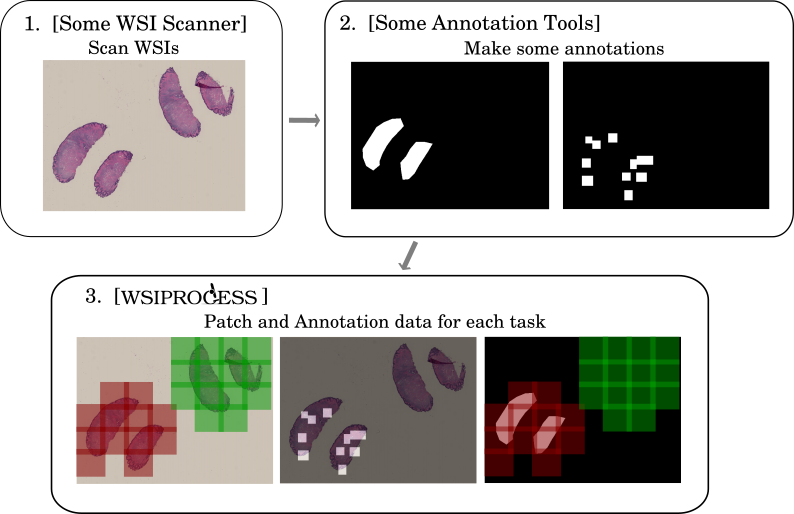
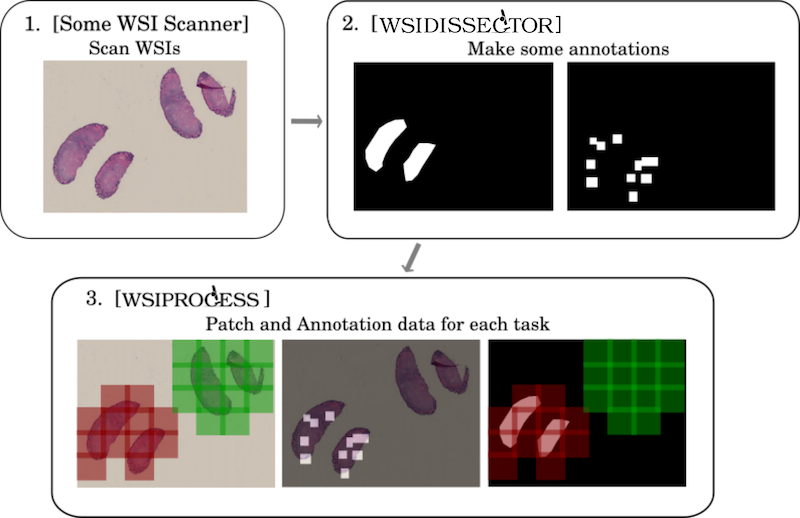
updates for wsidissector

diff --git a/wsiprocess/annotation.py b/wsiprocess/annotation.py
@@ -12,6 +12,11 @@ Example:
 
         import wsiprocess as wp
         annotation = wp.annotation("path_to_annotation_file.xml")
+
+    Loading annotation data from image:: python
+
+        import wsiprocess as wp
+        annotation = wp.annotation("")
 """
 
 import cv2
@@ -22,9 +27,20 @@ from .annotationparser.parser_utils import detect_type
 
 class Annotation:
 
-    def __init__(self, path):
+    def __init__(self, path, is_image=False):
+        """Initialize the anntation object.
+
+        Args:
+            path(str): Path to the anntation data.
+                Text data made with "WSIDissector" or "ASAP", and Image data
+                (non-pyramidical) are available.
+            is_image(bool): Whether the image is image.
+        """
         self.path = path
-        self.read_annotation()
+        self.is_image = is_image
+        self.classes = []
+        if not self.is_image:
+            self.read_annotation()
         self.masks = {}
         self.contours = {}
 
@@ -60,6 +76,22 @@ class Annotation:
                 "[{e}] Could not parse {}".format(e, self.path))
         self.classes = parsed.classes
         self.mask_coords = parsed.mask_coords
+
+    def add_class(self, classes):
+        for cls in classes:
+            self.classes.append(cls)
+
+    def from_image(self, mask, cls):
+        """Load mask data from an image.
+
+        Args:
+            mask(numpy.ndarray): 2D mask image with background as 0, and
+                foreground as 255.
+            cls(str): Name of the class of the mask image.
+        """
+        assert len(mask.shape) == 2, "Mask image is not 2D."
+        assert self.classes, "Classes are not set yet."
+        self.masks[cls] = mask
 
     def make_masks(self, slide, rule=False, foreground=False, size=2000):
         """Make masks from the slide and rule.

diff --git a/wsiprocess/annotationparser/wsidissector_parser.py b/wsiprocess/annotationparser/wsidissector_parser.py
@@ -35,15 +35,15 @@ class AnnotationParser:
         annotations = self.annotation["result"]
         for annotation in annotations:
             cls = annotation["class"]
-            x = round(annotation["x"])
-            y = round(annotation["y"])
-            w = round(annotation["w"])
-            h = round(annotation["h"])
             contour = []
             if "points" in annotation:
                 for point in annotation["points"]:
                     contour.append([point["x"], point["y"]])
             else:
+                x = round(annotation["x"])
+                y = round(annotation["y"])
+                w = round(annotation["w"])
+                h = round(annotation["h"])
                 contour.append([x, y])
                 contour.append([x+w, y])
                 contour.append([x+w, y+h])

diff --git a/README.md b/README.md
@@ -14,7 +14,7 @@ Convert Helper for Histopathological / Cytopathological Machine Learning Tasks
 <div style="text-align: center"><img src="https://raw.githubusercontent.com/tand826/wsiprocess/master/images/description.png" style="max-width: 80%; margin: 0 auto;"></div>
 
 1. Scan some WSIs.
-2. Make some annotations with WSI annotation tools
+2. Make some annotations with WSI annotation tools. (Recommended: [WSIDissector](https://github.com/tand826/WSIDissector)(coming soon))
 3. Then wsiprocess helps converting WSI + Annotation data into patches and easy-to-use annotation data.
 
 [WSIPatcher](https://github.com/tand826/WSIPatcher) will give you GUI.
@@ -86,6 +86,25 @@ annotation.make_masks(slide, rule)
 annotation.export_thumb_masks("xxx/masks")
 ```
 
+### Load mask data from image, and extract patches.
+
+```python
+import wsiprocess as wp
+import cv2
+slide = wp.slide("xxx.tiff")
+annotation = wp.annotation("yyy.tiff", is_image=True)
+target_classes = ["benign", "malignant"]
+annotation.add_class(target_classes)
+benign_mask = cv2.imread("benign_mask.png", 0)
+malignant_mask = cv2.imread("malignant_mask.png", 0)
+# Make sure your mask data includes only 0 as background or 255 as foreground
+annotation.from_image(benign_mask, "benign")
+annotation.from_image(malignant_mask, "malignant")
+rule = wp.rule("xxx.json")
+patcher = wp.patcher(slide, "classification", foreground=True)
+patcher.get_patch_parallel(target_classes)
+```
+
 ### As a command line tool
 
 ```bash
@@ -94,7 +113,7 @@ wsiprocess xxx.tiff method --annotation xxx.xml
 
 - Need recommendation for choice of arguments? -> [Command Helper](https://tand826.github.io/wsiprocess_command_line_helper)
 
-### As a docker command line tool
+### As a docker command line tool (not working on)
 
 ```bash
 # build the image
@@ -106,7 +125,7 @@ docker run --name wsiprocess_container -v [your files directory]:/data -it -d ws
 
 see Command Helper for commands
 
-### Convert to VOC / COCO / YOLO style format (experimental)
+### Convert to VOC / COCO / YOLO style format
 
 
 ```bash
